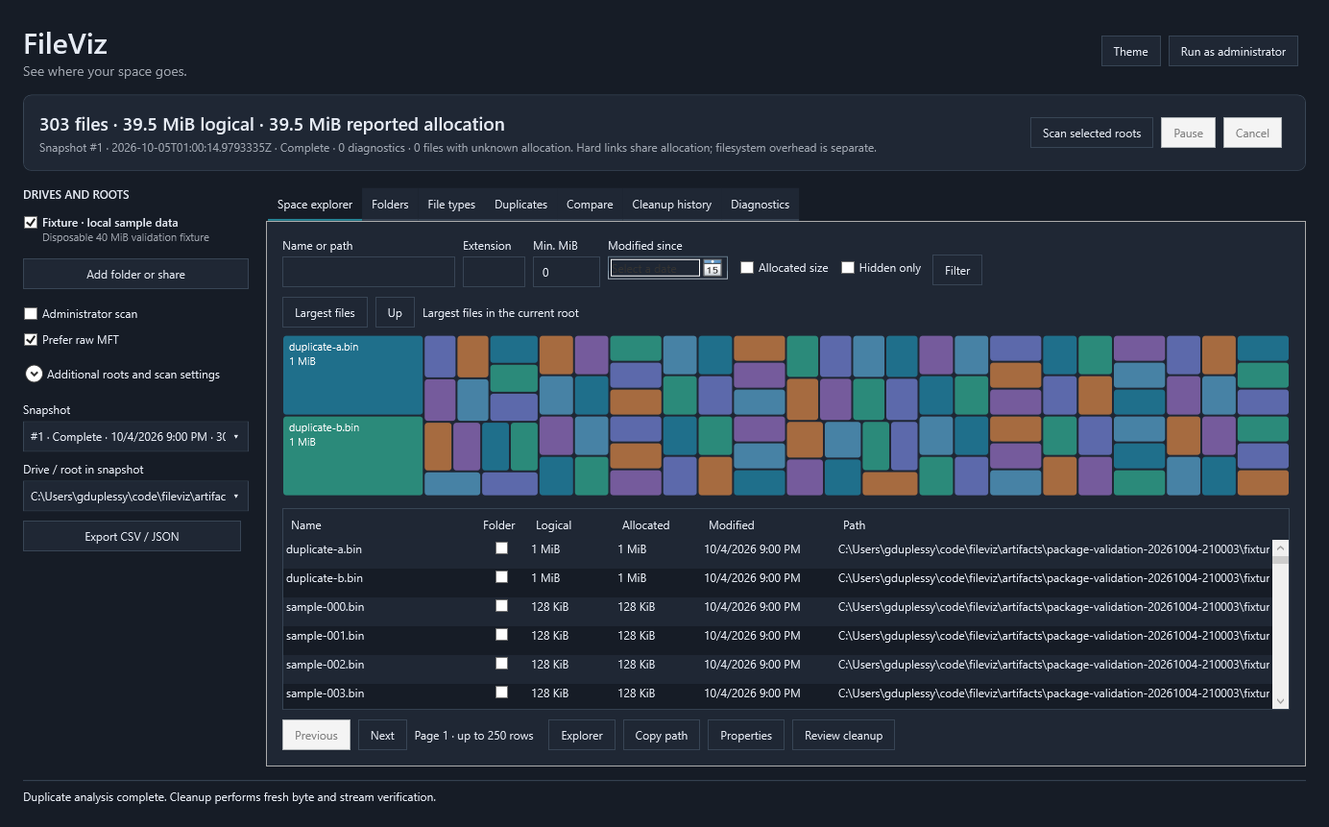
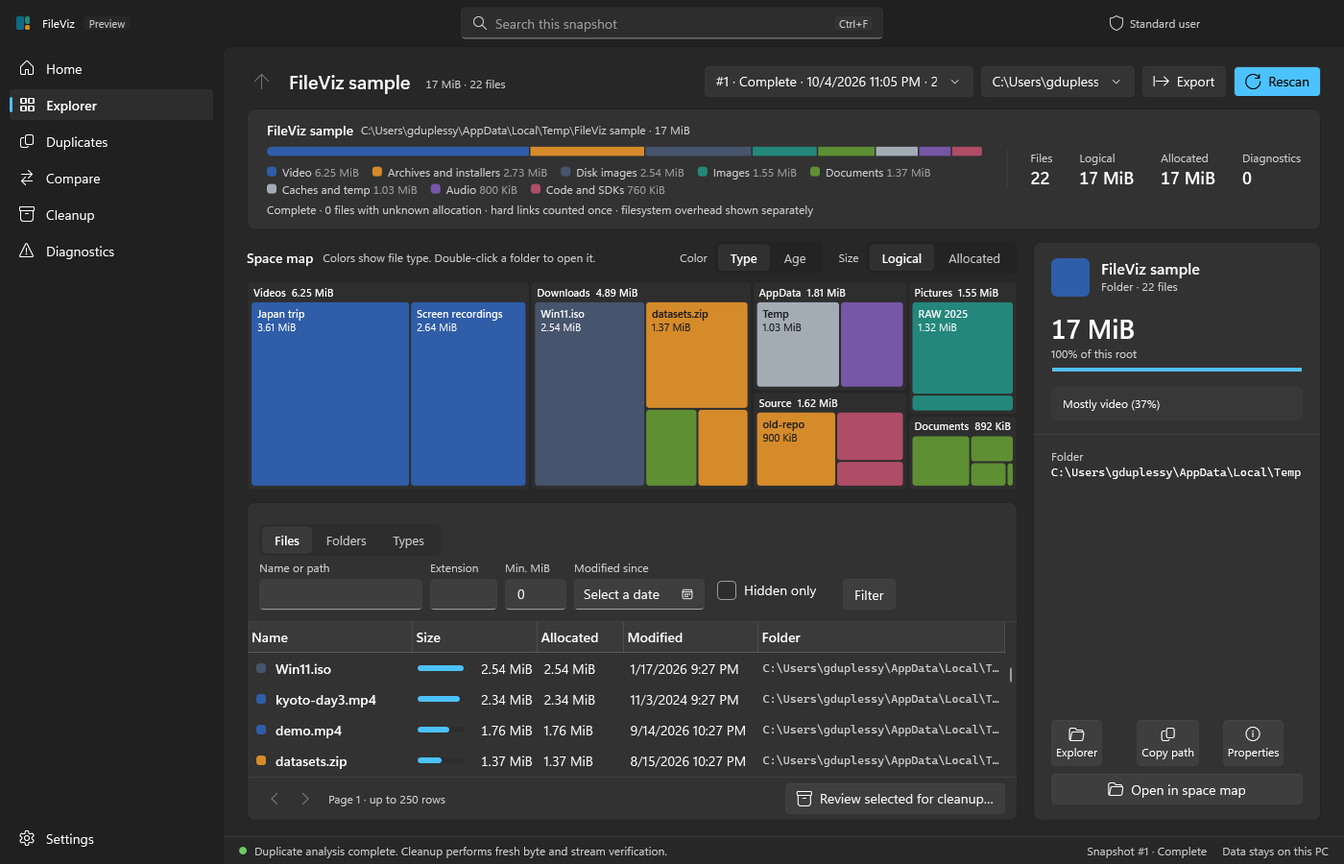
docs: document the redesigned app, record composition cost, refresh screenshots
- user-guide.md rewritten for Home, Explorer (type/age map, usage bar,
  inspector), Duplicates, review and quarantine, Cleanup, Compare,
  Diagnostics, Settings, and keyboard use.
- architecture.md covers composition totals, bounded space-map queries,
  diagnostic kinds, compare totals, duplicate runs, precheck, and settings.
- design.md records all eight phases as implemented, deviations from the
  screen specs, and remaining risks.
- performance.md and evidence/index-million-composition.json: 1M-entry
  finalize 130.79 s vs 124.20 s before (+5.3%), targets still met.
- validation.md adds index composition and precheck rows and a manual UI
  checklist for themes, Mica/Snap Layouts, keyboard, Narrator, and DPI.
- Screenshots regenerated from the smoke run on a disposable sample folder.
- CHANGELOG: Unreleased entry covers the redesign.

diff --git a/docs/design.md b/docs/design.md
@@ -164,7 +164,7 @@ Style keys in `Themes/Controls.xaml`: `TitleText`, `SubtitleText`, `BodyStrongTe
 
 ## Screens
 
-Each item lists what the screen shows and where the data comes from. "New" marks data that does not exist yet.
+Each item lists what the screen shows and where the data comes from. "Data" notes name the queries and records behind each screen.
 
 ### First run
 
@@ -172,7 +172,7 @@ The empty state when the index has no snapshots: headline, privacy line, drive c
 
 ### Home
 
-- Scan-in-progress card: target, engine badge (Raw MFT or Directory), worker badge (read-only, elevated or not), progress, files, logical bytes, elapsed time, diagnostics, Pause, and Cancel (Esc). The progress denominator is **new**: MFT record count for the raw engine; the directory engine shows an indeterminate bar.
+- Scan-in-progress card: target, engine badge (Raw MFT or Directory), worker badge (read-only, elevated or not), progress, files, logical bytes, elapsed time, diagnostics, Pause, and Cancel (Esc). The progress denominator is the MFT record count across both raw passes (`ScanProgress`); the directory engine shows an indeterminate bar.
 - Drive and root cards: capacity bar (caution over 85%), file system, available engine, last snapshot state. Add folder or share.
 - Options: Administrator scan, Prefer raw MFT, exclusions, profile picker. Scan button labelled with the number of selected roots.
 - Recent snapshots table: id, roots, state badge, time, files, logical size. Clicking a row opens it in Explorer.
@@ -184,24 +184,24 @@ The empty state when the index has no snapshots: headline, privacy line, drive c
 - Space map: Up, Type/Age switch, Logical/Allocated switch, nested treemap.
 - List card: Files/Folders/Types switch, filter field, chips (minimum size, extension, modified, hidden), top 100 recursive, columns Name (swatch), Size (inline bar), Allocated, Modified, Folder (mono).
 - Inspector: icon tile, name, type, size and share of used space, allocation callout for sparse or compressed files, folder path, allocated size, modified time, attributes, file ID, Explorer / Copy path / Properties, Review for cleanup, duplicate status for the folder.
-- **New data:** per-folder category and age byte totals (see the roadmap), extension-to-category mapping, the selected entry's attribute names, and the "Not attributed" figure (drive used space minus snapshot allocation, already computed as overhead text).
+- **Data:** per-folder category and age byte totals, the extension-to-category mapping, the selected entry's attribute names, and the "Not attributed" figure (drive used space minus snapshot allocation).
 
 ### Duplicates
 
 - Header: scope picker, hash algorithm (SHA-256, SHA-1, MD5), Analyze or Re-analyze.
-- Pipeline card: Same size, Sample match, Full hash verified (files and groups), Reclaimable (verified only). Side facts: name-only matches, hard-link aliases collapsed. **New:** `DuplicateCoordinator` reports structured stage counts instead of progress strings.
+- Pipeline card: Same size, Sample match, Full hash verified (files and groups), Reclaimable (verified only). Side facts: name-only matches, hard-link aliases collapsed. **Data:** counts from the last `DuplicateRun` recorded in `duplicate_runs`.
 - Groups list: Verified/Name only switch, sort, paging. Each group card: swatch, name, copies and size, evidence badge, hash prefix, reclaimable bytes. Rows: Keep radio, Remove check box, path, modified time, note (Suggested keeper, Oldest copy, Alias of same file). Hard-link aliases cannot be selected.
 - Review tray: selected bytes and file and group counts, preferred keeper folder, Review N removals (accent). Every group must keep one copy before review opens.
 
 ### Cleanup review dialog
 
-Title "Move N files to quarantine?", Ready / Blocked / Disk space freed now (always 0 B until disposal), per-file precheck table (Identity, Metadata, Bytes, Streams, Status), blocked reasons in plain language, quarantine explanation, Back to selection / Cancel / Quarantine N files. **New:** a read-only `CleanupService.Precheck` that runs the same validation as the move without moving anything. The move still revalidates.
+Title "Move N files to quarantine?", Ready / Blocked / Disk space freed now (always 0 B until disposal), per-file precheck table (Identity, Metadata, Bytes, Streams, Status), blocked reasons in plain language, quarantine explanation, Back to selection / Cancel / Quarantine N files. **Data:** the read-only `CleanupService.PrecheckAsync`, which runs the same validation as the move without moving anything. The move still revalidates.
 
 ### Compare
 
 - Before and After pickers with state badges, Swap, Compare. Caution callout when either snapshot is not Complete.
-- Totals: net change, added, removed, grown (bytes and file counts). **New:** an aggregate `CompareSummary` query.
-- "Where it changed": diverging bars by folder (blue for shrink, orange for growth). **New:** a folder rollup by diffing the materialized `folders` table between the two snapshots, limited to three levels below the root.
+- Totals: net change, added, removed, grown (bytes and file counts). **Data:** `IndexStore.CompareTotals`.
+- "Where it changed": diverging bars by folder (blue for shrink, orange for growth). **Data:** `IndexStore.FolderChanges`, which diffs the materialized `folders` totals of both snapshots one and two levels below the root.
 - Changed files: All/Added/Removed/Grown switch, first 250 by size change. The existing `Compare` query, plus a change filter.
 
 ### Cleanup
@@ -210,11 +210,11 @@ Summary (held files and bytes, restored, Recycle Bin requested, failed), a remin
 
 ### Diagnostics
 
-Snapshot picker, coverage summary (files indexed, folders missing, counts by kind), entries with severity and kind, and a panel explaining what missing data affects and the engine used. **New:** `ScanError` gains a `Kind` (AccessDenied, Unavailable, Interrupted, NotTraversed, EngineFallback, Other), set where the error is raised. It is optional on the wire and defaults to Other so older workers stay compatible.
+Snapshot picker, coverage summary (files indexed, folders missing, counts by kind), entries with severity and kind, and a panel explaining what missing data affects and the engine used. **Data:** `ScanError.Kind` (AccessDenied, Unavailable, Interrupted, NotTraversed, EngineFallback, Other), set where the error is raised and optional on the wire; rows without a kind are classified from their message.
 
 ### Settings
 
-Appearance (theme: system/light/dark; accent note with a link to `ms-settings:colors`; default map coloring), Scanning (Prefer raw MFT, Administrator scan by default, default exclusions, profiles), Duplicates (algorithm, preferred keeper folder), Storage and privacy (index path and size, snapshot retention, cleanup journal), About (version, license, no telemetry, no automatic updates). **New:** a `settings(key, value)` table in the index database.
+Appearance (theme: system/light/dark; accent note with a link to `ms-settings:colors`; default map coloring), Scanning (Prefer raw MFT, Administrator scan by default, default exclusions, profiles), Duplicates (algorithm, preferred keeper folder), Storage and privacy (index path and size, snapshot count, cleanup journal), About (version, license, no telemetry, no automatic updates). **Data:** a `settings(key, value)` table in the index database.
 
 ## Copy
 
@@ -227,8 +227,8 @@ Appearance (theme: system/light/dark; accent note with a link to `ms-settings:co
 
 - Every interactive element is a real control with an accessible name. Icon-only buttons set `AutomationProperties.Name`.
 - Text contrast is at least 4.5:1 (3:1 at 24 px and above) in both themes. Category and age colors also differ in lightness.
-- The treemap exposes an automation peer listing tiles as items (name, size, category or age), and keyboard navigation as described above.
-- F6 cycles navigation, content, and inspector. Existing shortcuts stay: F5 scan, Esc cancel, Alt+Up, Ctrl+E export. New: Ctrl+F search, Ctrl+1 to Ctrl+6 for sections.
+- The treemap is focusable, supports the keyboard navigation described above, and announces the selected tile (name, size, category or age) through `AutomationProperties.ItemStatus`.
+- F6 and Shift+F6 cycle the navigation pane, the section content, and title bar search. Shortcuts: F5 scan, Esc cancel, Alt+Up, Ctrl+E export, Ctrl+F search, Ctrl+1 to Ctrl+6 for sections.
 - High Contrast: the Fluent theme handles controls; FileViz brushes map to `SystemColors`.
 - Per-monitor DPI stays enabled in `app.manifest`.
 
@@ -236,31 +236,31 @@ Appearance (theme: system/light/dark; accent note with a link to `ms-settings:co
 
 Each phase builds, passes `FileViz.slnx` tests, keeps the `--smoke` run green, and is shippable on its own. Logic that can be unit tested lives in `FileViz.Core` or `FileViz.Data`; `FileViz.App` stays thin.
 
-Status: phases 1 and 2 are implemented (see "Implemented in phases 1 and 2" below). Phases 3 to 8 are not started.
+Status: all eight phases are implemented. The sections below record what was built and where it deviates from the plan above.
 
 | Phase | Scope | Main changes | Tests |
 | --- | --- | --- | --- |
-| 1. Foundations (done) | Fluent theme, tokens, styles, icons | `Application.ThemeMode="System"` (`WPF0001` suppressed in `FileViz.App.csproj` only); Fluent dictionary merged explicitly so styles can derive from it; `Themes/Tokens.xaml`, `Controls.xaml`; `App.ApplyTheme` brush pokes removed; `App.SetTheme` | Smoke screenshots in both themes |
-| 2. Shell (done) | Title bar, navigation, sections, status bar | `WindowChrome` title bar with system caption buttons (Snap Layouts native); nav pane plus a `ContentControl` with one `DataTemplate` per section; `SessionViewModel` plus section view models; title bar search; Ctrl+F and Ctrl+1 to 6 | Existing tests; smoke updated; optional per-section captures |
-| 3. Home and first run | Scan setup moves out of the sidebar | Drive cards, options panel, progress card, recent snapshots; first-run state; MFT record progress from the worker | Worker progress message test |
-| 4. Explorer | Treemap, inspector, coloring | `FileCategory` and `AgeBucket` in Core; squarified `TreemapLayout` in Core (pure function); additive columns on `folders` for nine category and five age byte totals, filled in `RebuildFolders` (a generated SQL `CASE`); age relative to snapshot start; older snapshots show "Rescan to enable age colors"; nested treemap control with automation peer; inspector; list switch and chips | Category mapping, age buckets, layout invariants (areas proportional, no overlap, bounds), folder totals equal file sums, migration on an old database |
-| 5. Duplicates and review | Pipeline, group cards, precheck dialog | Structured `DuplicateProgress`; group cards with Keep/Remove; review tray; `CleanupService.Precheck` (read-only); new review dialog replacing the text-box window | Precheck parity with the move's validation; blocked cases (changed, missing keeper, stream mismatch) |
-| 6. Compare, Cleanup, Diagnostics | Remaining sections | `CompareSummary` and folder rollup from `folders`; change filter; Cleanup details panel; `ScanError.Kind` with wire compatibility | Rollup equals the file-level diff for a fixture; wire round-trip with and without `Kind` |
-| 7. Settings | Persistence and defaults | `settings` table; theme, map coloring, scan and duplicate defaults; `ms-settings:colors` link | Settings round-trip |
-| 8. Polish and docs | Keyboard, accessibility, screenshots | F6 cycling, Ctrl+F, Ctrl+1 to 6; High Contrast pass; Narrator pass; refresh README screenshots via smoke; update `user-guide.md` and `architecture.md` | Smoke in both themes; manual Narrator and High Contrast checklist in `validation.md` |
+| 1. Foundations | Fluent theme, tokens, styles, icons | `Application.ThemeMode="System"` (`WPF0001` suppressed in `FileViz.App.csproj` only); Fluent dictionary merged explicitly so styles can derive from it; `Themes/Tokens.xaml`, `Controls.xaml`; `App.SetTheme` | Smoke screenshots in both themes |
+| 2. Shell | Title bar, navigation, sections, status bar | `WindowChrome` title bar with system caption buttons; nav pane plus one `DataTemplate` per section; `SessionViewModel` plus section view models; title bar search; Ctrl+F, Ctrl+1 to 6 | Smoke updated; optional per-section captures |
+| 3. Home and first run | Drive cards, progress, first run | `ScanProgress` on raw MFT batches (optional on the wire); drive capacity and engine; state badges; first-run layout | Wire compatibility of `ScanProgress` |
+| 4. Explorer | Space map, coloring, inspector | `FileCategories`, `AgeBuckets`, `Composition`, `MapNode`, `TreemapLayout` in Core; nine category and five age columns on `folders`, built in `BuildComposition` after `RebuildFolders`; `SpaceMap`; nested treemap; usage bar; breadcrumb; inspector | Classification, age buckets, layout proportionality and overlap, composition sums, map shape, legacy migration |
+| 5. Duplicates and review | Pipeline, group cards, precheck | `DuplicateRun` in `duplicate_runs`; group cards with Keep/Remove persisted across pages; `CleanupService.PrecheckAsync`; `ReviewWindow` | Precheck outcomes and agreement with the move; run counts |
+| 6. Compare, Cleanup, Diagnostics | Remaining sections | `CompareTotals`, `FolderChanges`, change filter; cleanup details; `ScanError.Kind` and `DiagnosticKinds` | Totals and rollup agree with the file diff; kinds and legacy classification |
+| 7. Settings | Persistence and defaults | `settings` table; theme, map coloring, scan and duplicate defaults; profile deletion | Settings and profile round-trip |
+| 8. Polish and docs | Keyboard, accessibility, docs | F6 and Shift+F6 pane cycling; High Contrast drawing in the treemap and usage bar; README screenshots refreshed from the smoke run; user guide, architecture, validation, and performance updated | Smoke in both themes with section captures; manual checklist in `validation.md` |
 
-### Implemented in phases 1 and 2
+### Implementation notes
 
-- **Theme:** `App.xaml` sets `ThemeMode="System"` and merges `PresentationFramework.Fluent;component/Themes/Fluent.xaml` first, then `Tokens.xaml` and `Controls.xaml`. Settings switches system, light, or dark through `App.SetTheme`. Mica comes from the Fluent window style. The choice is not persisted yet (phase 7).
-- **Title bar:** `WindowChrome` with `GlassFrameThickness="-1"` and `UseAeroCaptionButtons="True"`. Content draws into the 48 px caption over Mica and Windows still draws the caption buttons, so Snap Layouts and dark captions need no custom hit-testing. Only the search box opts into hit testing (`WindowChrome.IsHitTestVisibleInChrome`). Keep the right 150 px of the title bar free for the caption buttons.
-- **View models:** `SessionViewModel` owns the index, snapshot history, selected snapshot and root, busy state, cancellation and pause, and status. Sections implement `ISnapshotSection` (`Reset`, `HistoryChanged`, `RefreshAsync`) and register with the session: `ExplorerViewModel`, `DuplicatesViewModel`, `CompareViewModel`, `CleanupViewModel`, `DiagnosticsViewModel`. `HomeViewModel` owns scope, options, profiles, and `ScanAsync`. `SettingsViewModel` owns appearance. `ShellViewModel` owns navigation (`NavItem`), title bar search, and shortcuts.
-- **Views:** `Views/MainWindow.xaml` is the shell; each section is a `UserControl` in `Views/Sections`. Folders and File types moved into Explorer as the Files/Folders/Types switch. The review dialog moved to `Views/ReviewDialog.cs` with unchanged behavior (phase 5 replaces it).
-- **Lists:** `ListGrid` replaces Fluent's `DataGridCell` template to center content vertically, and re-applies Fluent's selection and focus visuals.
-- **Smoke run:** forces light, then dark, and captures over a solid background because Mica does not appear in `RenderTargetBitmap`. Set `FILEVIZ_SMOKE_SECTIONS=1` to also write `section-<name>.png` and `section-<name>-dark.png` for every section.
-- **Not yet in this layout:** breadcrumb, volume usage bar, inspector, category and age coloring (phase 4); drive cards with capacity, progress denominators, first-run state (3); group cards and precheck dialog (5); compare totals and folder rollup, cleanup details, diagnostic kinds (6); settings persistence (7); filter-field placeholders and F6 pane cycling (8).
+- **Theme:** `App.xaml` sets `ThemeMode="System"` and merges `PresentationFramework.Fluent;component/Themes/Fluent.xaml` first, then `Tokens.xaml` and `Controls.xaml`. Mica comes from the Fluent window style.
+- **Title bar:** `WindowChrome` with `GlassFrameThickness="-1"` and `UseAeroCaptionButtons="True"`. Content draws into the 48 px caption over Mica and Windows still draws the caption buttons, so Snap Layouts and dark captions need no custom hit-testing. Only the search box opts into hit testing. Keep the right 150 px of the title bar free for the caption buttons.
+- **View models:** `SessionViewModel` owns the index, snapshot history, selected snapshot and root, busy state, cancellation and pause, and status. Sections implement `ISnapshotSection` (`Reset`, `HistoryChanged`, `RefreshAsync`) and register with the session. `ShellViewModel` owns navigation (`NavItem`), title bar search, and shortcuts. `SettingsViewModel` loads saved preferences at startup and applies them to the sections.
+- **Lists:** `ListGrid` replaces Fluent's `DataGridCell` template to center content vertically and re-applies Fluent's selection and focus visuals.
+- **Space map:** two levels only. Unlisted bytes inside a nested folder stay as container background so listed children keep true proportions. Selection is announced through `AutomationProperties.ItemStatus` instead of a per-tile automation peer.
+- **Deviations from the screen specs:** the Duplicates evidence switch (verified / name only) became a separate **Find name matches** action, because a run stores one kind of evidence; hash prefixes are not shown on group cards (the duplicates table does not store them); the Cleanup journal panel shows the recorded state and time, not a step timeline, because the journal stores only the latest state; Diagnostics shows general engine guidance, because the engine used is not stored per snapshot.
+- **Smoke run:** forces light, then dark, and captures over a solid background because Mica does not appear in `RenderTargetBitmap`. `FILEVIZ_SMOKE_SECTIONS=1` also captures the first-run layout, every section in both themes, age coloring, a duplicate selection, the review window, and a two-snapshot comparison.
 
 ### Risks
 
-- `ThemeMode` is marked experimental (`WPF0001`). The project treats warnings as errors, so the suppression must be scoped to the app project and revisited each .NET release. Fallback: keep the token dictionaries and style controls by hand.
-- Additional aggregation in `RebuildFolders` lengthens finish time on large volumes. Measure with `FileViz.Benchmarks` on the 1M and 10M datasets and record results in `performance.md` before shipping phase 4.
-- Splitting `ShellViewModel` touches every binding. Do it in phase 2 before adding features, with the smoke test as the regression net.
+- `ThemeMode` is marked experimental (`WPF0001`). The suppression is scoped to the app project; revisit it on each .NET release. Fallback: keep the token dictionaries and style controls by hand.
+- Composition totals lengthen snapshot finish time. Measured on the 1M synthetic dataset: finalize 130.79 s against 124.20 s before (+5.3%), with memory and query targets still met. The 10M dataset has not been re-measured. See `performance.md`.
+- The review window prechecks files one at a time; very large selections take proportionally longer before Quarantine is enabled.

diff --git a/docs/user-guide.md b/docs/user-guide.md
@@ -1,31 +1,62 @@
 # Using FileViz
 
-## Scan
+FileViz has six sections in the left pane (Home, Explorer, Duplicates, Compare, Cleanup, Diagnostics) plus Settings. Sections that need a snapshot are disabled until your first scan.
 
-On **Home**, select one or more drives, add a folder/share, or enter additional roots. Overlapping roots are collapsed. Hidden/system entries are included. Exclusions accept an absolute folder prefix or filename wildcard; profiles save roots, exclusions, and the preferred engine.
+## Scan (Home)
 
-FileViz runs unelevated by default. Check **Administrator scan** to launch a read-only worker through UAC. Raw MFT scanning is used for complete local NTFS volumes; selected subfolders, unsupported formats, and shares use directory enumeration. A raw failure discards its entries and restarts through the directory engine, with an explanation under **Diagnostics**. Worker elevation must use the same Windows identity. If UAC requires another administrator account, run the entire application as that account instead. Mapped shares are resolved to UNC paths before elevation. Existing Windows credentials are used; authentication errors do not change network configuration.
+On first launch, Home shows the drives on this PC. Select one or more, or choose **Folder or share**, then **Scan**. Later, Home shows drive cards with used space, file system, the engine that applies, and the state of each drive's latest snapshot, plus your recent snapshots (double-click or Enter opens one in Explorer).
 
-Pause stops consumption at a metadata batch boundary. Cancel closes the pipe and terminates the read-only worker. Partial, failed, cancelled, interrupted, and stale snapshots remain clearly labelled. Reparse directories and cloud placeholders are not traversed or hydrated.
+Overlapping roots are collapsed. Hidden and system entries are included. Exclusions accept an absolute folder prefix or a filename wildcard; profiles save roots, exclusions, and the preferred engine. Default exclusions and engine choices live in **Settings**.
+
+FileViz runs unelevated by default. Turn on **Administrator scan** to launch a read-only worker through UAC. Raw MFT scanning is used for complete local NTFS volumes; selected subfolders, unsupported formats, and shares use directory enumeration. A raw failure discards its entries and restarts through the directory engine, recorded under **Diagnostics** as an engine fallback. Worker elevation must use the same Windows identity. If UAC requires another administrator account, run the entire application as that account instead. Mapped shares are resolved to UNC paths before elevation. Existing Windows credentials are used; authentication errors do not change network configuration.
+
+While a scan runs, Home shows the target, engine, worker, files, logical bytes, and elapsed time. Raw MFT scans also show records read across both passes. **Pause** stops consumption at a metadata batch boundary. **Cancel** (Esc) closes the pipe and terminates the read-only worker. Partial, failed, cancelled, interrupted, and stale snapshots remain clearly labelled. Reparse directories and cloud placeholders are not traversed or hydrated.
 
 ## Explore
 
-Open **Explorer** and choose a snapshot and its drive/root at the top. The space map shows the largest children; click a folder to navigate. The Files, Folders, and Types switch changes the list below the map. **Largest files** returns to the current root ranking. File/folder views use bounded pages or top-100 rankings, rather than loading the entire inventory. Logical and reported allocated sizes differ for sparse, compressed, resident, and hard-linked files. Unknown allocation is labelled; allocation is counted once per known identity in totals.
+**Explorer** opens the selected snapshot and root. The breadcrumb shows where you are; Up (Alt+Up) or a breadcrumb step goes back.
 
-Apply literal name/path, extension, minimum MiB, modified-date, and hidden-attribute filters. Explorer, Copy path, and Properties operate on selected entries. Export writes the complete snapshot as CSV or JSON to a new file. Snapshot comparisons require matching roots and show the first 250 added, removed, or grown files; partial coverage affects comparisons.
+- **Volume card:** used and free space for drive roots, a usage bar by file type or age with a legend, and totals for files, logical size, allocated size, and diagnostics. A hatched **Not attributed** segment is drive usage that no scanned file accounts for (file system metadata, named streams, sharing, and coverage gaps).
+- **Space map:** the largest folders and files at this level. Large folders show their own largest children inside them; space in items too small to list stays as background, so tiles keep true proportions. **Color: Type** colors by file category (by extension); **Age** colors by last-modified time relative to the scan, with older shown darker. **Size: Logical / Allocated** switches the measure. Click selects; double-click or Enter opens a folder; arrow keys move between tiles. Your coloring choice is remembered.
+- **Inspector:** details for the selected tile or file: size and share of the root, allocation notes for sparse, compressed, and placeholder files, folder, attributes, and file ID, with Explorer, Copy path, Properties, and **Review for cleanup**. With nothing selected it describes the folder being shown.
+- **Lists:** **Files** (largest files, with filters for name or path, extension, minimum size, modified date, and hidden), **Folders**, and **Types**. Lists use bounded pages or top-100 rankings rather than loading the whole inventory.
 
-Keyboard: F5 scan, Escape cancel, Alt+Up navigate, Ctrl+E export, Ctrl+F search the selected snapshot, Ctrl+1 to Ctrl+6 switch sections. The theme follows Windows by default; choose light or dark in Settings. The accent color follows your Windows accent color. Controls support keyboard focus, accessible names, and per-monitor DPI scaling.
+Logical and reported allocated sizes differ for sparse, compressed, resident, and hard-linked files. Unknown allocation is labelled; allocation is counted once per known identity in totals. Snapshots taken before type and age totals existed show a note asking for a rescan before the map and bar can be colored.
 
-## Duplicates and cleanup
+**Export** (Ctrl+E) writes the complete snapshot as CSV or JSON to a new file. The title bar search (Ctrl+F) filters the selected snapshot by name or path and opens the results in Explorer.
 
-The default duplicate scope is the current root. Enable selected roots to compare across drives/snapshots. Name candidates never imply savings. Content analysis filters by size, samples content, and then hashes entire main streams. SHA-256 is the default; MD5 and SHA-1 are compatibility options. Sampling alone never forms a verified group. Known hard links are collapsed as aliases, not independent copies.
+## Duplicates
 
-A preferred folder influences suggested keepers; suggestions do not select removals. Review exact selected paths before quarantine. Duplicate cleanup freshly validates identities, metadata, bytes, and every named stream, holding read locks through the move. Missing/unverifiable streams, changed files, differing content, and a missing keeper block that removal. Protected system/application locations, reparse points, and placeholders are blocked.
+The default scope is the current root; **Compare across selected roots** spans drives and snapshots. **Analyze content** filters by size, compares samples, then hashes entire main streams. SHA-256 is the default; SHA-1 and MD5 are compatibility options. The pipeline card shows how many files passed each stage and the reclaimable size of verified groups only. **Find name matches** is fast, but name matches never imply savings and cannot be selected for removal. Known hard links are collapsed as aliases, not independent copies, and counted separately.
 
-Manual file cleanup is also reviewed and freshly revalidated. Files move into a hidden `.FileViz-Quarantine` directory beside their original parent on the same volume. A durable journal records intent, completion, and individual failures. Restore never overwrites an existing path. Restart reconciles interrupted moves conservatively. Keep quarantined files in place until restored or explicitly disposed.
+Each group card shows its evidence, size, and copies. Choose one copy to **Keep** and tick **Remove** on the others; a keeper can never be removed, and choices are kept as you page through groups. A preferred keeper folder influences suggested keepers on the next analysis; suggestions never select removals.
 
-Quarantine retains disk space. The Windows Recycle Bin request displays Windows dialogs; unavailable/oversize recycling is never silently changed to permanent deletion. Cancelling retains the quarantined file. A completed Windows disposal request is logged without claiming that the OS used a particular disposal method. Review Windows prompts. Emptying the bin is a separate Windows action.
+## Review and quarantine
+
+**Review removals** (or **Review for cleanup** in Explorer) opens the review window. FileViz prechecks every selected file without moving anything: identity, size and timestamps, and for duplicates the bytes and every named stream against the keeper. Files that fail are listed as blocked with the reason and stay in place. **Quarantine** moves only the files that passed, and each move revalidates under read locks. Protected system and application locations, reparse points, and placeholders are blocked.
+
+Files move into a hidden `.FileViz-Quarantine` directory beside their original parent on the same volume. A durable journal records intent, completion, and individual failures. Restore never overwrites an existing path. Restart reconciles interrupted moves conservatively.
+
+## Cleanup
+
+**Cleanup** lists what quarantine holds (files and bytes), with restored, Recycle Bin requested, and failed counts. Select an entry to see its original and quarantine paths and file ID, then **Restore**, **Show in Explorer**, or **Send to Recycle Bin**.
+
+Quarantine retains disk space. The Windows Recycle Bin request displays Windows dialogs; unavailable or oversize recycling is never silently changed to permanent deletion. Cancelling retains the quarantined file. A completed Windows disposal request is logged without claiming that the OS used a particular disposal method. Emptying the bin is a separate Windows action.
+
+## Compare
+
+**Compare** needs two snapshots of the same roots. It totals every added, removed, grown, and shrunk file, shows the folders one and two levels below the root whose size changed most, and lists the first 250 file changes by size, filterable by kind. A caution appears when either snapshot is not complete, because unread folders can make files look added or removed.
+
+## Diagnostics
+
+**Diagnostics** summarizes coverage for the selected snapshot. Each entry has a kind: **Access denied** and **Path unavailable** are coverage gaps (those folders are missing from totals, duplicates, and comparisons; FileViz never estimates their size); **Interrupted** and **Engine fallback** are warnings; **Not traversed** marks items listed by design but not followed. **Copy report** copies the list.
+
+## Settings and keyboard
+
+Settings holds the app theme (follows Windows by default), the default map coloring, scan defaults (prefer raw MFT, administrator scan, default exclusions), saved profiles, the default hash algorithm and preferred keeper folder, and storage details. Settings are saved in the index database. The accent color follows your Windows accent color.
+
+Keyboard: F5 scan, Esc cancel, Alt+Up up one level, Ctrl+E export, Ctrl+F search, Ctrl+1 to Ctrl+6 switch sections, F6 and Shift+F6 move between the navigation pane, the section, and search. Controls have accessible names, the space map announces the selected tile, and High Contrast themes are followed. Per-monitor DPI scaling is enabled.
 
 ## Privacy and storage
 
-Snapshots and journals live in `%LOCALAPPDATA%/FileViz/index.db`. Reports contain paths and metadata: review them before sharing. No telemetry, drivers, automatic deletion, automatic updates, or remote storage are used. Removing a snapshot database does not restore quarantine files; retain the journal while cleanup actions remain outstanding.
+Snapshots, settings, and journals live in `%LOCALAPPDATA%/FileViz/index.db`. Reports contain paths and metadata: review them before sharing. No telemetry, drivers, automatic deletion, automatic updates, or remote storage are used. Removing a snapshot database does not restore quarantine files; retain the journal while cleanup actions remain outstanding.

diff --git a/docs/architecture.md b/docs/architecture.md
@@ -17,14 +17,14 @@ The UI owns SQLite writes through background service connections. A current-user
 
 The raw engine queries NTFS geometry/version and bootstraps `$MFT` extents through identity-validated record IOCTLs. It streams extents, applies sector fixups, validates attributes/runlists/references, and resolves extension records and hard links. Directory ancestry is capped at 250,000 records / estimated 64 MiB; path cache at 10,000 entries / estimated 32 MiB; nonresident attribute lists at 16 MiB; accumulated extension metadata at 32 MiB. Unsupported structures or exceeded budgets discard raw entries for that root and restart native directory scanning. Root sequence numbers and ancestry references are validated.
 
-SQLite uses WAL, batched transactions, 32 MiB connection caches, file-backed temporary work, and per-snapshot indexes constructed after ingestion. Bounded index statistics prevent the planner choosing repeated full-snapshot scans for parent aggregates. Root, folder, and extension totals are materialized. Known hard-linked identities are refreshed once through the worker and canonicalized across names, because directory-index timestamps can lag writes through another alias. This avoids retaining all identities in memory or opening every scanned file individually.
+SQLite uses WAL, batched transactions, 32 MiB connection caches, file-backed temporary work, and per-snapshot indexes constructed after ingestion. Bounded index statistics prevent the planner choosing repeated full-snapshot scans for parent aggregates. Root, folder, and extension totals are materialized. Each folder row also stores logical bytes by nine file categories (extension-only, defined once in `FileViz.Core`) and five last-modified age buckets measured from the snapshot start, filled after ingestion by the same depth-ordered rollup. The space map and usage bar read these instead of scanning files. Older databases gain the columns in place; their snapshots report no composition until rescanned. Known hard-linked identities are refreshed once through the worker and canonicalized across names, because directory-index timestamps can lag writes through another alias. This avoids retaining all identities in memory or opening every scanned file individually.
 
-Views query pages of 250 files/duplicates, or bounded folder/type rankings. Filter refreshes carry a revision so late reads cannot replace newer selections. CSV/JSON exports stream the entire inventory. Snapshots are observations of a changing filesystem, not atomic backups; denied access, interruptions, fallback diagnostics, and stale results remain visible.
+Views query pages of 250 files/duplicates, or bounded folder/type rankings. The space map loads at most 24 folders and 40 files per level, plus up to 8 children for each of its 12 largest folders. Filter refreshes carry a revision so late reads cannot replace newer selections. CSV/JSON exports stream the entire inventory. Snapshots are observations of a changing filesystem, not atomic backups; denied access, interruptions, fallback diagnostics, and stale results remain visible. Diagnostics carry an optional kind (access denied, unavailable, interrupted, not traversed, engine fallback) set where they are raised; rows from older databases are classified from their message. Compare totals come from aggregate queries over both snapshots, and per-folder changes from diffing their materialized folder totals. Preferences live in a `settings` table in the same database.
 
 ## Duplicates and cleanup
 
-Duplicate work lives in SQLite: collapse overlapping history and known identities, filter by size, compare samples, then compute full main-stream hashes. Samples and names never establish equivalence. Hash reuse checks identity/change metadata; unknown change metadata prevents caching.
+Duplicate work lives in SQLite: collapse overlapping history and known identities, filter by size, compare samples, then compute full main-stream hashes. Samples and names never establish equivalence. Hash reuse checks identity/change metadata; unknown change metadata prevents caching. Each analysis records its stage counts (same size, sample match, verified, groups, reclaimable, name matches, collapsed aliases) in `duplicate_runs`.
 
-Cleanup is independently reviewed and verified. Locked read handles revalidate the selected target and keeper, byte-compare main data and named streams, and retain at least one independent keeper. Protected locations/reparse parents/placeholders are blocked. Handle-based same-volume renames use a durable intent journal. Restore never overwrites. Interrupted journals reconcile by identity or require review. Windows Recycle Bin requests preserve OS dialogs and never silently choose permanent deletion. Potential savings, reported allocation, and actual free-space change are distinct concepts.
+Cleanup is independently reviewed and verified. A read-only precheck runs the same identity, metadata, byte, and stream validation without moving anything, so review can show each check per file; the move still revalidates everything under its own locks. Locked read handles revalidate the selected target and keeper, byte-compare main data and named streams, and retain at least one independent keeper. Protected locations/reparse parents/placeholders are blocked. Handle-based same-volume renames use a durable intent journal. Restore never overwrites. Interrupted journals reconcile by identity or require review. Windows Recycle Bin requests preserve OS dialogs and never silently choose permanent deletion. Potential savings, reported allocation, and actual free-space change are distinct concepts.
 
 `winsqlite3.dll` is serviced by Windows. Using it avoids redistributing a separately vulnerable SQLite native binary. The pinned managed provider and upstream notices are included in release documentation.

diff --git a/docs/validation.md b/docs/validation.md
@@ -8,11 +8,23 @@ Claims below distinguish automated fixtures, a rendered live desktop, and unveri
 | Engine parity | Disposable NTFS VHD, 10,220 matching owned entries; 100 aliases inducing extension records, ADS, resident/compressed/sparse data, Unicode/long paths, junction | Physical fragmented-MFT reference fixture; concurrent changes |
 | Directory/index | Metadata round-trip, exclusions, overlapping roots, root-scoped totals/query/export, snapshots, indexed primary view, canonical alias identity checks | ReFS, FAT/exFAT/USB and mounted-volume provider matrix |
 | Worker | Authenticated named pipe, launched PID checks, metadata request, rejection of unknown operation, actual local hash-worker exit within two seconds | Standard-UI/elevated-worker cancellation timings, secure-desktop UAC cancellation, deliberately stalled SMB/provider read, crash injection |
-| Desktop | Visible WPF scan and SHA-256 duplicate smoke: 303 files, 40 MiB, 2 duplicate rows, no errors; reviewed rendered screenshot | Keyboard/screen-reader acceptance, DPI and dark-theme checks across multiple displays |
+| Desktop | Visible WPF smoke in light and dark themes: scan, SHA-256 duplicate pair, no errors. With `FILEVIZ_SMOKE_SECTIONS=1`: first-run layout, every section, age coloring, duplicate selection, review-window precheck, and a two-snapshot comparison, each reviewed as rendered screenshots | Manual checklist below; captures are offscreen, so Mica and Snap Layouts need a live check |
+| Index composition | Category and age totals equal file sums, two-level space map shape, legacy database migration, compare totals and folder rollup agreeing with the file diff, diagnostic kinds and legacy classification, settings and profiles round-trip | 10M-entry finish time with composition not re-measured |
 | Duplicates | Name candidates have no savings; samples never establish equivalence; staged full hashes, overlapping history, hard-link alias handling, changed metadata/identity rejection | Full multi-drive provider matrix and hash cache performance |
+| Cleanup precheck | Matching copies pass all four checks and agree with the move; differing bytes, changed metadata, and differing named streams fail only their own check; manual selections skip content checks | Precheck of very large selections (sequential) |
 | Cleanup | Fresh byte mismatches, changed metadata, differing ADS, protected paths, quarantine and no-overwrite restore, journal reconciliation | Recycle Bin unavailable/oversized-file paths, interrupted OS recycle request, network and cross-user UAC provider cases |
 | Performance | One- and ten-million-entry synthetic index memory/query targets passed | Combined UI/worker real-volume budgets; raw 2x target currently unmet |
 | Packages | Self-contained ZIP and per-user installer: 303 fixture files, 2 duplicate rows, zero errors with SDK paths removed; install/uninstall exit 0; checksums verified | Authenticode signing; ARM64; other Windows versions |
+
+## Manual UI checklist
+
+Run before a release on a real window, not the smoke captures:
+
+- Light, dark, and a High Contrast theme: text, badges, treemap outlines, and usage bar stay legible; switching in Settings applies immediately.
+- Mica visible behind the navigation pane and title bar; hovering the maximize button shows Snap Layouts; the title bar drags and double-click maximizes.
+- Keyboard only: Tab reaches every control in each section; F6 and Shift+F6 cycle navigation, content, and search; Ctrl+1 to Ctrl+6 switch sections; arrow keys and Enter work in the space map; Esc cancels a scan.
+- Narrator: navigation items, icon-only buttons, the space map selection, and review-window check states are announced.
+- 100%, 150%, and 200% display scaling, and a window moved between monitors with different scaling.
 
 Only disposable fixtures are used for cleanup tests. User files are never automatically selected or modified during validation. Structural raw failures discard raw entries and restart directory enumeration; incomplete coverage remains visible. Quarantine and Recycle Bin requests retain or dispose data separately from potential-savings estimates.
 Machine-readable reports live in [evidence](evidence/). The [final package report](evidence/packages-release.json) validates the exact downloaded `v0.1.0` release assets, including the root/treemap assertion. Package validation is reproducible with scripts/validate-package.ps1; it uses only workspace-owned disposable files and refuses to overwrite an existing user installation.

diff --git a/docs/performance.md b/docs/performance.md
@@ -13,6 +13,8 @@ The synthetic generator creates 1,000 directories and files with deterministic s
 
 The million-entry index used 834,646,016 database bytes; the ten-million-entry index used 8,377,925,632 bytes. The ten-million run completed in 23.37 minutes, with most time spent building indexes and summaries. Interleaved insertion is materially slower than directory-clustered insertion because it scatters primary-index writes. The directory engine performs depth-first traversal. Dataset ordering is stated explicitly; timings across different orders are not direct scaling comparisons.
 
+**With composition totals (redesign, same machine, 2026-10-04).** Finishing a snapshot now also builds per-folder file-type and age totals. The one-million interleaved run finalized in 130.79 s, against 124.20 s before (+6.6 s, +5.3%). Peak working set was 187.16 MiB, the cached file query median/max 1.36 / 12.31 ms, and the database 835,932,160 bytes (+1.3 MB). Ingest took 187.12 s against 505.11 s earlier; ingestion code did not change, so that gap reflects run conditions and is not claimed as an improvement. The ten-million run was not repeated. [Evidence](evidence/index-million-composition.json).
+
 Both index processes met their component memory budgets (512 MiB / 1 GiB) and the 500 ms primary-query budget. This is not a combined UI/worker measurement. A separate visible desktop smoke run indexed 303 files / 40 MiB and found the expected SHA-256 duplicate pair, with zero diagnostics; its UI process peaked at 169.18 MiB. Combined working sets on real million/ten-million-file volumes remain unverified.
 
 ## Disposable NTFS fixture

diff --git a/CHANGELOG.md b/CHANGELOG.md
@@ -3,8 +3,13 @@
 ## Unreleased
 
 - Windows 11 Fluent theme with Mica, the Windows accent color, and system, light, or dark mode chosen in Settings.
-- New window layout: title bar search (Ctrl+F), left navigation (Home, Explorer, Duplicates, Compare, Cleanup, Diagnostics, Settings; Ctrl+1 to Ctrl+6), and a status bar. Folders and File types are now a switch inside Explorer.
-- Design system and redesign roadmap in `docs/design.md`.
+- New window layout: title bar search (Ctrl+F), left navigation (Home, Explorer, Duplicates, Compare, Cleanup, Diagnostics, Settings; Ctrl+1 to Ctrl+6, F6 to move between panes), and a status bar. Folders and File types are now a switch inside Explorer.
+- Home: first-run layout, drive cards with capacity and latest snapshot state, and live scan progress including MFT records read.
+- Explorer: two-level space map colored by file type or by age, a usage bar with "not attributed" space, breadcrumb navigation, and an inspector with allocation notes and shell actions. Requires a rescan for snapshots taken by earlier versions.
+- Duplicates: pipeline counts, group cards with explicit Keep and Remove choices, and a review window that prechecks identity, metadata, bytes, and named streams for every file before quarantine.
+- Compare totals every change and shows the folders that changed most; Cleanup shows held space and per-file details; Diagnostics groups entries into coverage gaps, warnings, and items not traversed.
+- Settings are saved: theme, map coloring, scan and duplicate defaults, and saved profiles.
+- Design system and redesign notes in `docs/design.md`.
 
 ## 0.1.0 — preview
 
